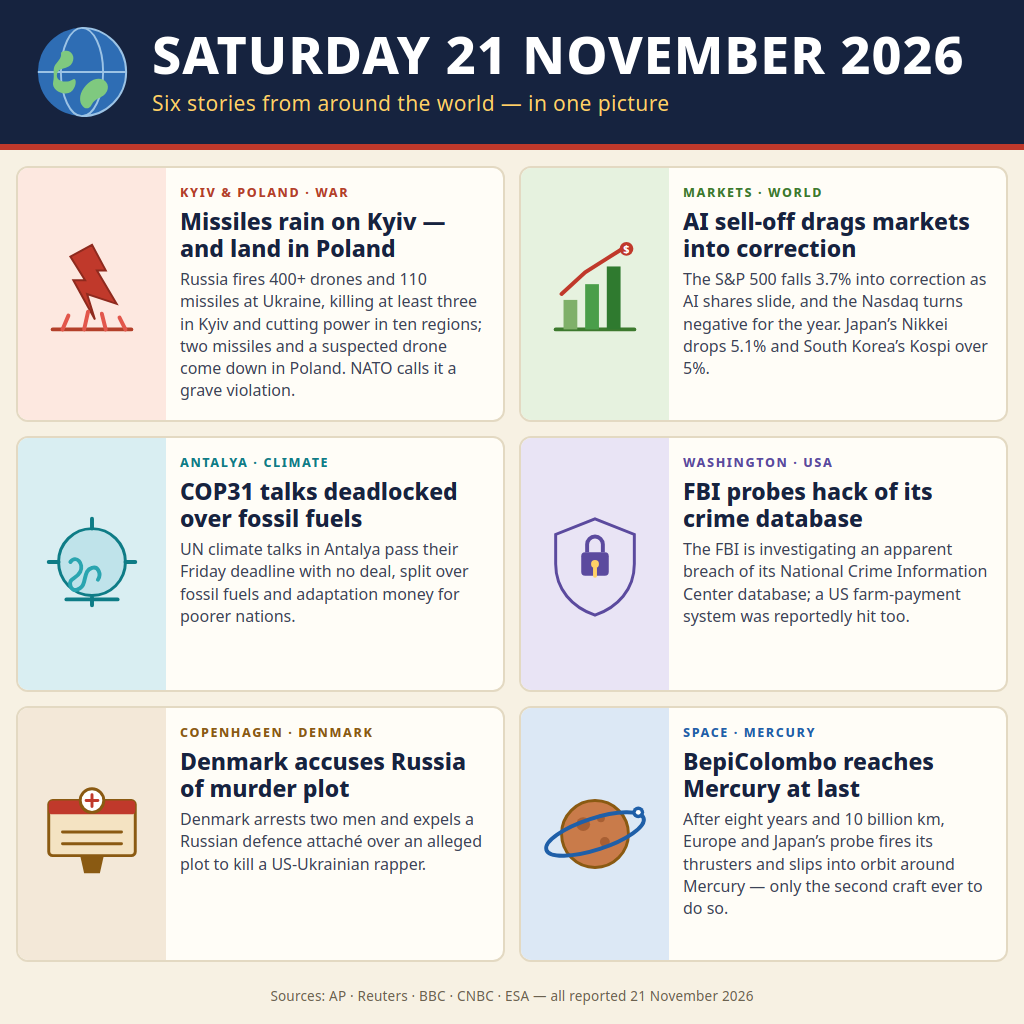
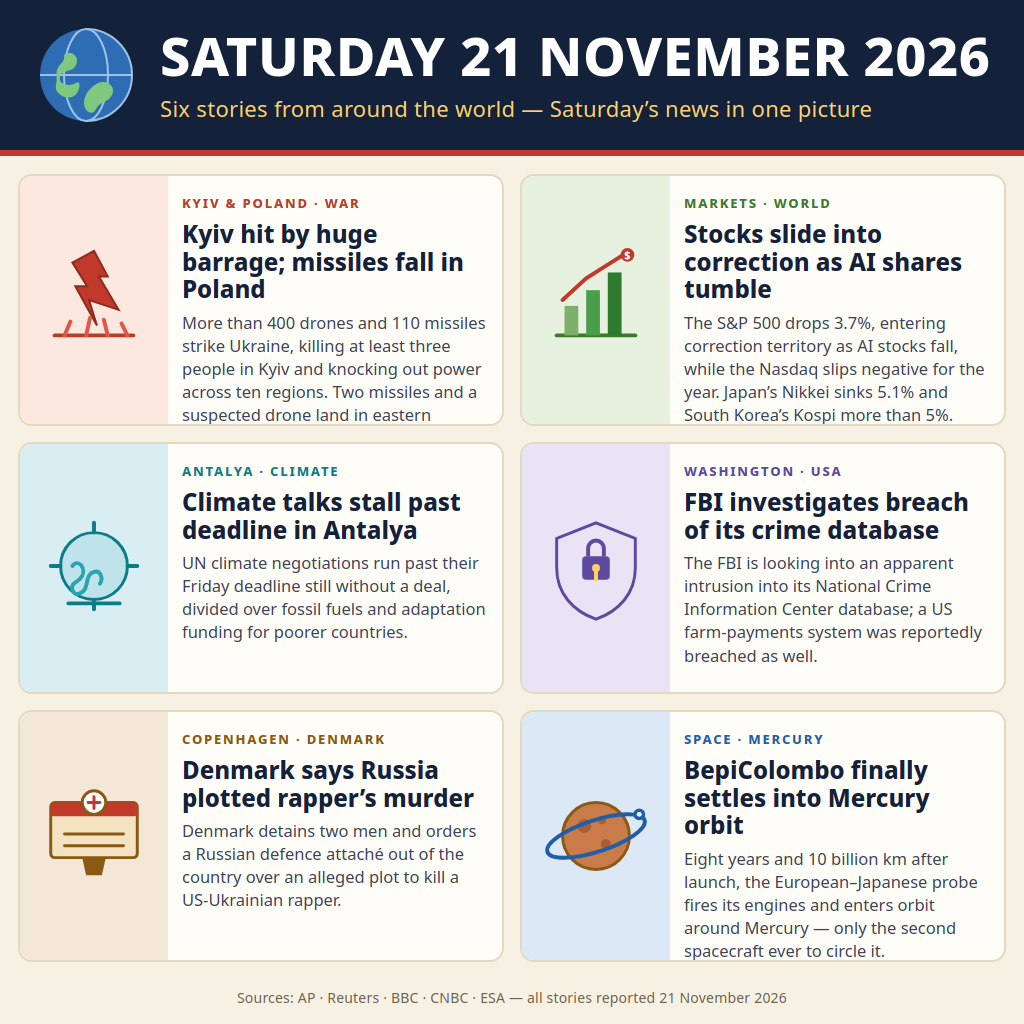
Rewrite shoot.mjs (direct Chromium screenshot), reword stories, verify copy in main.ts

diff --git a/render.html b/render.html
@@ -12,43 +12,43 @@
     overflow: hidden;
   }
   header {
-    height: 150px; background: #16233f; color: #fff;
-    display: flex; align-items: center; gap: 22px;
-    padding: 0 34px; border-bottom: 6px solid #c0392b;
+    height: 156px; background: #14213a; color: #fff;
+    display: flex; align-items: center; gap: 24px;
+    padding: 0 36px; border-bottom: 6px solid #c0392b;
   }
-  header .globe { flex: 0 0 96px; }
+  header .globe { flex: 0 0 100px; }
   header h1 {
-    font-size: 52px; font-weight: 800; letter-spacing: 1px;
-    line-height: 1.05; white-space: nowrap;
+    font-size: 54px; font-weight: 800; letter-spacing: 0.5px;
+    line-height: 1.04; white-space: nowrap;
   }
   header p {
-    font-size: 21px; color: #ffd166; margin-top: 8px; letter-spacing: .4px;
+    font-size: 22px; color: #ffd166; margin-top: 9px; letter-spacing: .3px;
   }
   main {
-    display: grid; grid-template-columns: 1fr 1fr; gap: 14px;
-    padding: 16px 16px 12px;
+    display: grid; grid-template-columns: 1fr 1fr; gap: 16px;
+    padding: 18px 18px 12px;
   }
   .card {
-    height: 256px; background: #fffdf7; border: 2px solid #e3d9c2;
-    border-radius: 12px; display: flex; overflow: hidden;
+    height: 252px; background: #fffdf7; border: 2px solid #e3d9c2;
+    border-radius: 14px; display: flex; overflow: hidden;
   }
   .icon {
     flex: 0 0 148px; display: flex; align-items: center; justify-content: center;
   }
   .icon svg { width: 118px; height: 118px; }
-  .text { padding: 16px 16px 12px 14px; }
+  .text { padding: 18px 16px 12px 14px; }
   .kicker {
-    font-size: 12.5px; font-weight: 800; letter-spacing: 1.6px;
-    text-transform: uppercase; margin-bottom: 7px;
+    font-size: 13px; font-weight: 800; letter-spacing: 1.8px;
+    text-transform: uppercase; margin-bottom: 8px;
   }
   .text h2 {
-    font-size: 23px; line-height: 1.16; font-weight: 800; color: #16233f;
-    margin-bottom: 7px;
+    font-size: 24px; line-height: 1.15; font-weight: 800; color: #14213a;
+    margin-bottom: 8px;
   }
-  .text p { font-size: 16px; line-height: 1.38; color: #3c4356; }
+  .text p { font-size: 16.5px; line-height: 1.4; color: #3c4356; }
   footer {
-    height: 44px; display: flex; align-items: center; justify-content: center;
-    font-size: 13.5px; color: #6b6250; letter-spacing: .2px;
+    height: 46px; display: flex; align-items: center; justify-content: center;
+    font-size: 14px; color: #6b6250; letter-spacing: .2px;
   }
   .c1 .icon { background: #fde8e0; } .c1 .kicker { color: #b3402a; }
   .c2 .icon { background: #e6f2df; } .c2 .kicker { color: #3d7a2e; }
@@ -70,7 +70,7 @@
   </svg>
   <div>
     <h1>SATURDAY 21 NOVEMBER 2026</h1>
-    <p>Six stories from around the world &mdash; in one picture</p>
+    <p>Six stories from around the world &mdash; Saturday&rsquo;s news in one picture</p>
   </div>
 </header>
 
@@ -86,8 +86,8 @@
     </div>
     <div class="text">
       <div class="kicker">Kyiv &amp; Poland &middot; War</div>
-      <h2>Missiles rain on Kyiv &mdash; and land in Poland</h2>
-      <p>Russia fires 400+ drones and 110 missiles at Ukraine, killing at least three in Kyiv and cutting power in ten regions; two missiles and a suspected drone come down in Poland. NATO calls it a grave violation.</p>
+      <h2>Kyiv hit by huge barrage; missiles fall in Poland</h2>
+      <p>More than 400 drones and 110 missiles strike Ukraine, killing at least three people in Kyiv and knocking out power across ten regions. Two missiles and a suspected drone land in eastern Poland; NATO calls the incursion grave.</p>
     </div>
   </section>
 
@@ -105,8 +105,8 @@
     </div>
     <div class="text">
       <div class="kicker">Markets &middot; World</div>
-      <h2>AI sell-off drags markets into correction</h2>
-      <p>The S&amp;P 500 falls 3.7% into correction as AI shares slide, and the Nasdaq turns negative for the year. Japan&rsquo;s Nikkei drops 5.1% and South Korea&rsquo;s Kospi over 5%.</p>
+      <h2>Stocks slide into correction as AI shares tumble</h2>
+      <p>The S&amp;P 500 drops 3.7%, entering correction territory as AI stocks fall, while the Nasdaq slips negative for the year. Japan&rsquo;s Nikkei sinks 5.1% and South Korea&rsquo;s Kospi more than 5%.</p>
     </div>
   </section>
 
@@ -121,8 +121,8 @@
     </div>
     <div class="text">
       <div class="kicker">Antalya &middot; Climate</div>
-      <h2>COP31 talks deadlocked over fossil fuels</h2>
-      <p>UN climate talks in Antalya pass their Friday deadline with no deal, split over fossil fuels and adaptation money for poorer nations.</p>
+      <h2>Climate talks stall past deadline in Antalya</h2>
+      <p>UN climate negotiations run past their Friday deadline still without a deal, divided over fossil fuels and adaptation funding for poorer countries.</p>
     </div>
   </section>
 
@@ -138,8 +138,8 @@
     </div>
     <div class="text">
       <div class="kicker">Washington &middot; USA</div>
-      <h2>FBI probes hack of its crime database</h2>
-      <p>The FBI is investigating an apparent breach of its National Crime Information Center database; a US farm-payment system was reportedly hit too.</p>
+      <h2>FBI investigates breach of its crime database</h2>
+      <p>The FBI is looking into an apparent intrusion into its National Crime Information Center database; a US farm-payments system was reportedly breached as well.</p>
     </div>
   </section>
 
@@ -156,8 +156,8 @@
     </div>
     <div class="text">
       <div class="kicker">Copenhagen &middot; Denmark</div>
-      <h2>Denmark accuses Russia of murder plot</h2>
-      <p>Denmark arrests two men and expels a Russian defence attach&eacute; over an alleged plot to kill a US-Ukrainian rapper.</p>
+      <h2>Denmark says Russia plotted rapper&rsquo;s murder</h2>
+      <p>Denmark detains two men and orders a Russian defence attach&eacute; out of the country over an alleged plot to kill a US-Ukrainian rapper.</p>
     </div>
   </section>
 
@@ -175,14 +175,14 @@
     </div>
     <div class="text">
       <div class="kicker">Space &middot; Mercury</div>
-      <h2>BepiColombo reaches Mercury at last</h2>
-      <p>After eight years and 10 billion km, Europe and Japan&rsquo;s probe fires its thrusters and slips into orbit around Mercury &mdash; only the second craft ever to do so.</p>
+      <h2>BepiColombo finally settles into Mercury orbit</h2>
+      <p>Eight years and 10 billion km after launch, the European&ndash;Japanese probe fires its engines and enters orbit around Mercury &mdash; only the second spacecraft ever to circle it.</p>
     </div>
   </section>
 </main>
 
 <footer>
-  Sources: AP &middot; Reuters &middot; BBC &middot; CNBC &middot; ESA &mdash; all reported 21 November 2026
+  Sources: AP &middot; Reuters &middot; BBC &middot; CNBC &middot; ESA &mdash; all stories reported 21 November 2026
 </footer>
 </body>
 </html>

diff --git a/main.ts b/main.ts
@@ -13,10 +13,24 @@ const here = dirname(fileURLToPath(import.meta.url));
 const outDir = process.env.MAKEFUN_OUTPUT_DIR ?? '/output';
 const src = join(here, 'entry.png');
 
-// Fail loudly if the image is not a whole PNG (magic bytes 89 50 4E 47).
-const head = readFileSync(src).subarray(0, 4);
+// Fail loudly if the image is not a whole PNG (magic bytes 89 50 4E 47)
+// or if it breaks the competition's size cap of 1 MiB.
+const bytes = readFileSync(src);
+const head = bytes.subarray(0, 4);
 if (head[0] !== 0x89 || head[1] !== 0x50 || head[2] !== 0x4e || head[3] !== 0x47) {
   throw new Error('entry.png is not a PNG file');
 }
+if (bytes.length > 1048576) {
+  throw new Error(`entry.png is ${bytes.length} bytes, over the 1 MiB cap`);
+}
 mkdirSync(outDir, { recursive: true });
-copyFileSync(src, join(outDir, 'entry.png'));
+const dest = join(outDir, 'entry.png');
+copyFileSync(src, dest);
+
+// Read the copy back and confirm it is byte for byte the source:
+// a run that writes different bytes is a broken run.
+const written = readFileSync(dest);
+if (written.length !== bytes.length || !written.equals(bytes)) {
+  throw new Error('copied entry.png does not match the source byte for byte');
+}
+console.log(`wrote ${dest} (${written.length} bytes)`);
